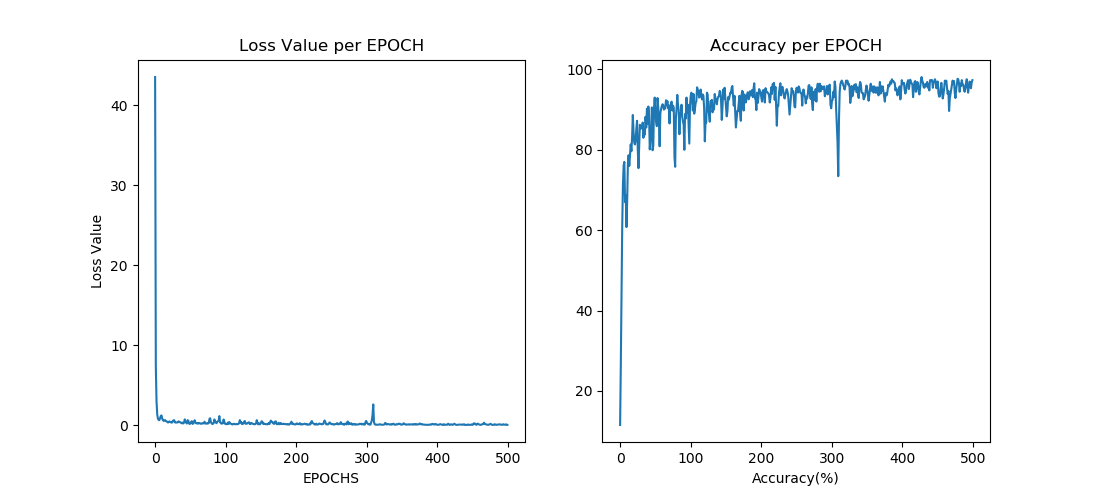
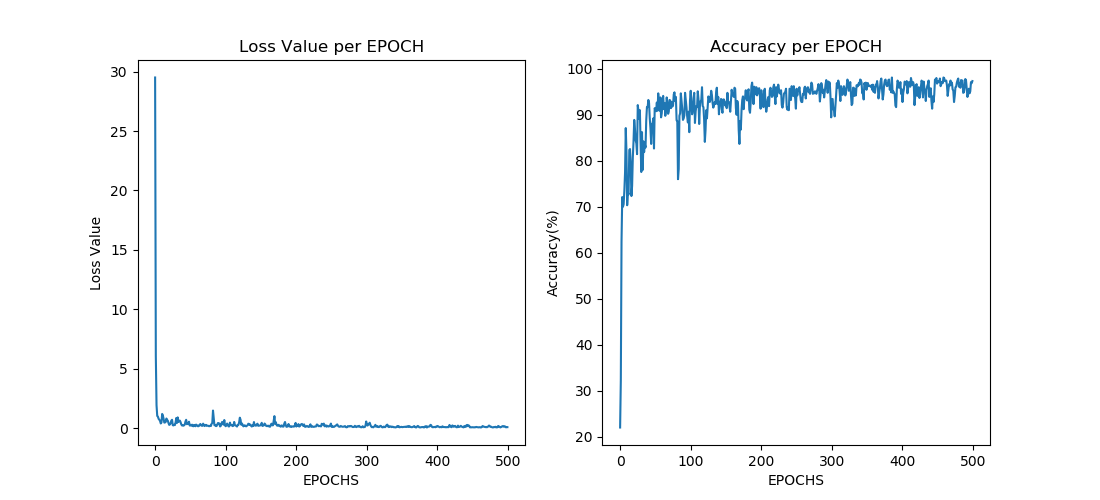
README update

diff --git a/training.py b/training.py
@@ -179,7 +179,8 @@ loss_area.set_title('Loss Value per EPOCH')
 
 accuracy_area = fig.add_subplot(122)
 accuracy_area.plot(range(EPOCHS), accuracy_per_epoch)
-accuracy_area.set_xlabel('Accuracy(%)')
+accuracy_area.set_xlabel('EPOCHS')
+accuracy_area.set_ylabel('Accuracy(%)')
 accuracy_area.set_title('Accuracy per EPOCH')
 
 plt.show()
